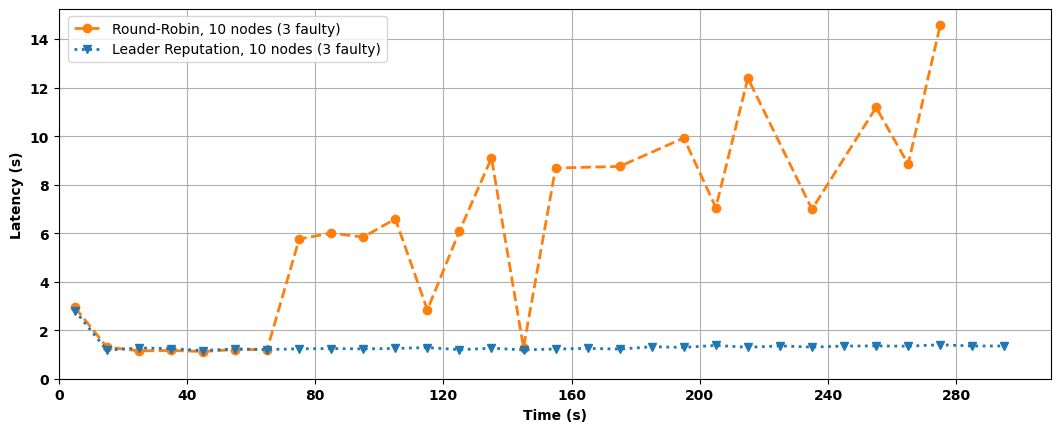
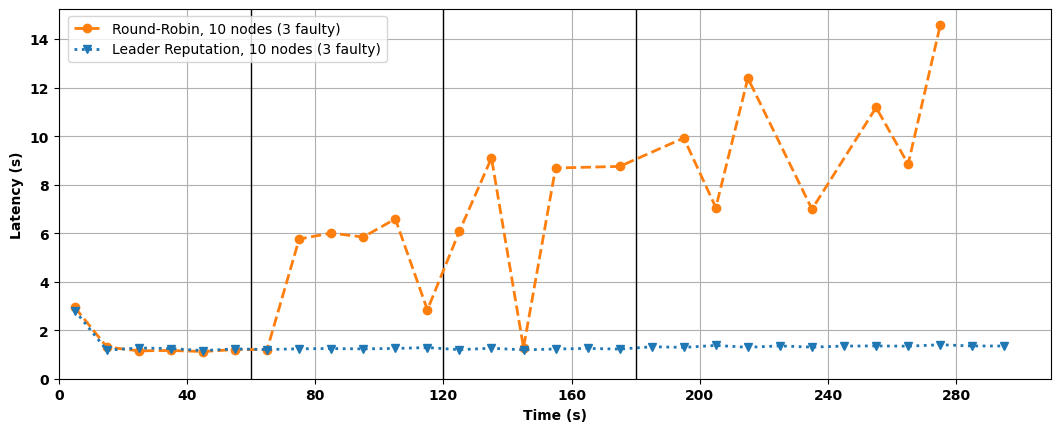
Draw vertical lines

diff --git a/data/time-plots/timing.py b/data/time-plots/timing.py
@@ -140,6 +140,10 @@ class Ploter:
         styles = cycle(['dashed', 'dotted'])
         colors = cycle(['tab:orange', 'tab:blue', 'tab:green'])
 
+        plt.axvline(x=60, color='k', linewidth=1)
+        plt.axvline(x=120, color='k', linewidth=1)
+        plt.axvline(x=180, color='k', linewidth=1)
+
         for scheme in [(round_robin, 'Round-Robin'), (reputation, 'Leader Reputation')]:
             x, name = scheme
             style = next(styles)
